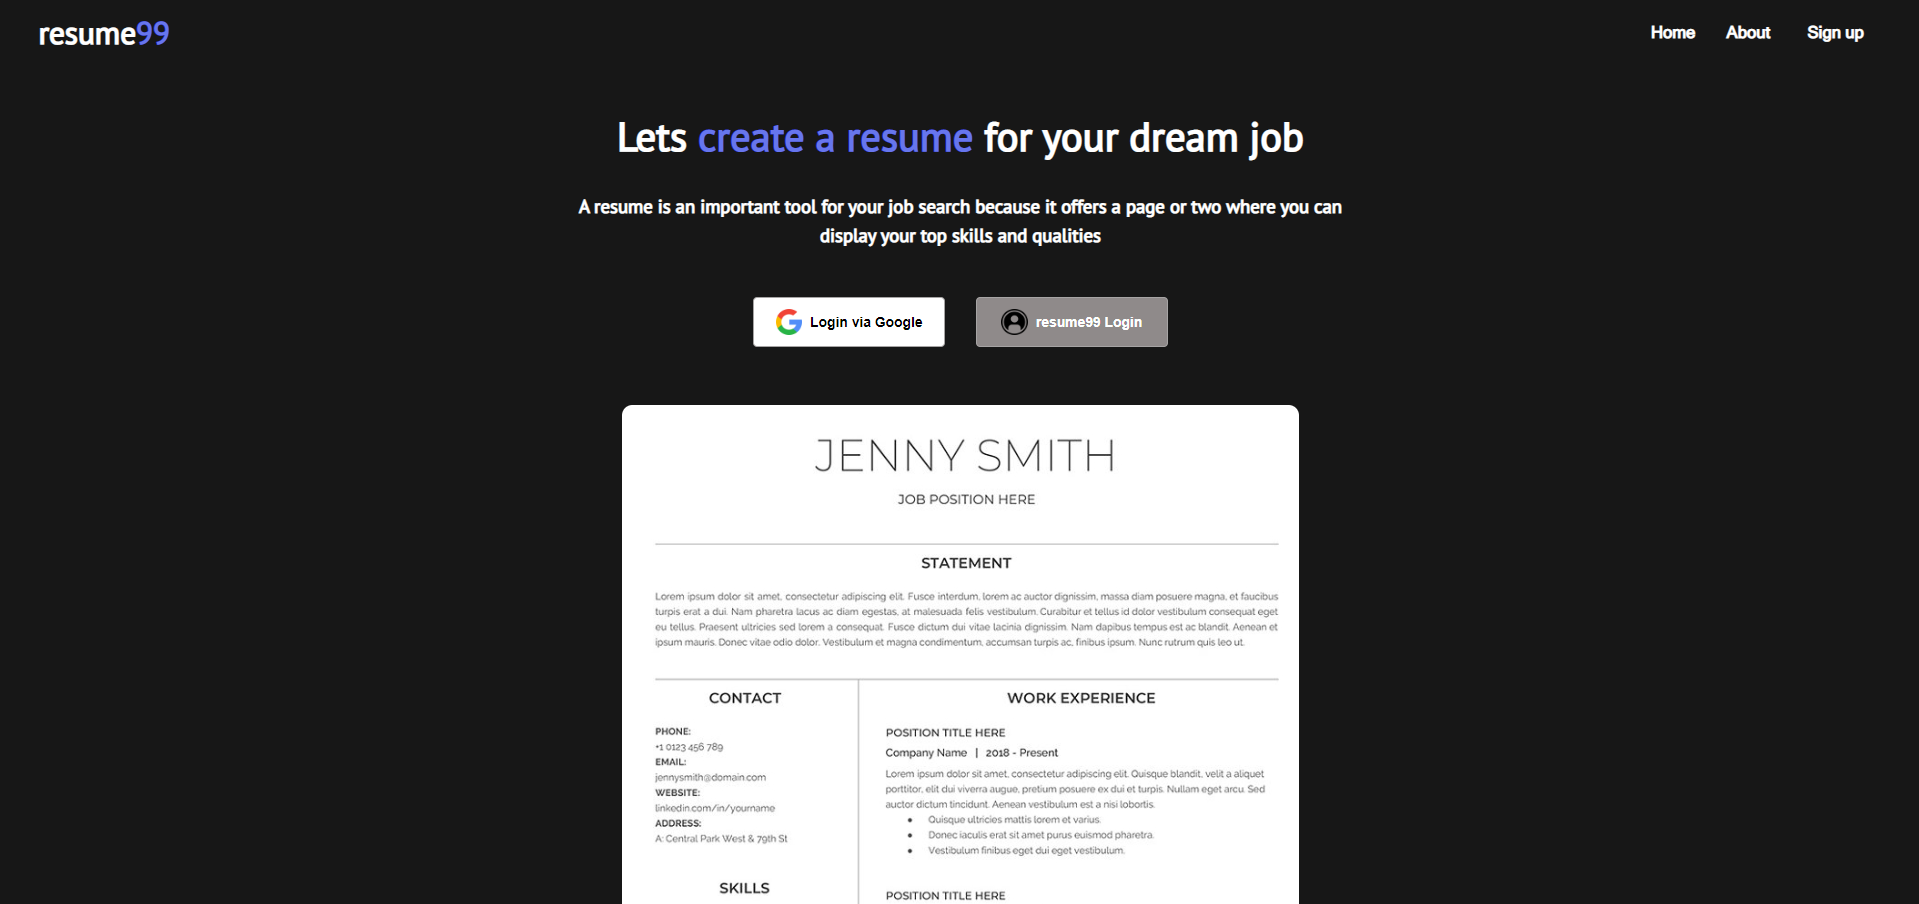
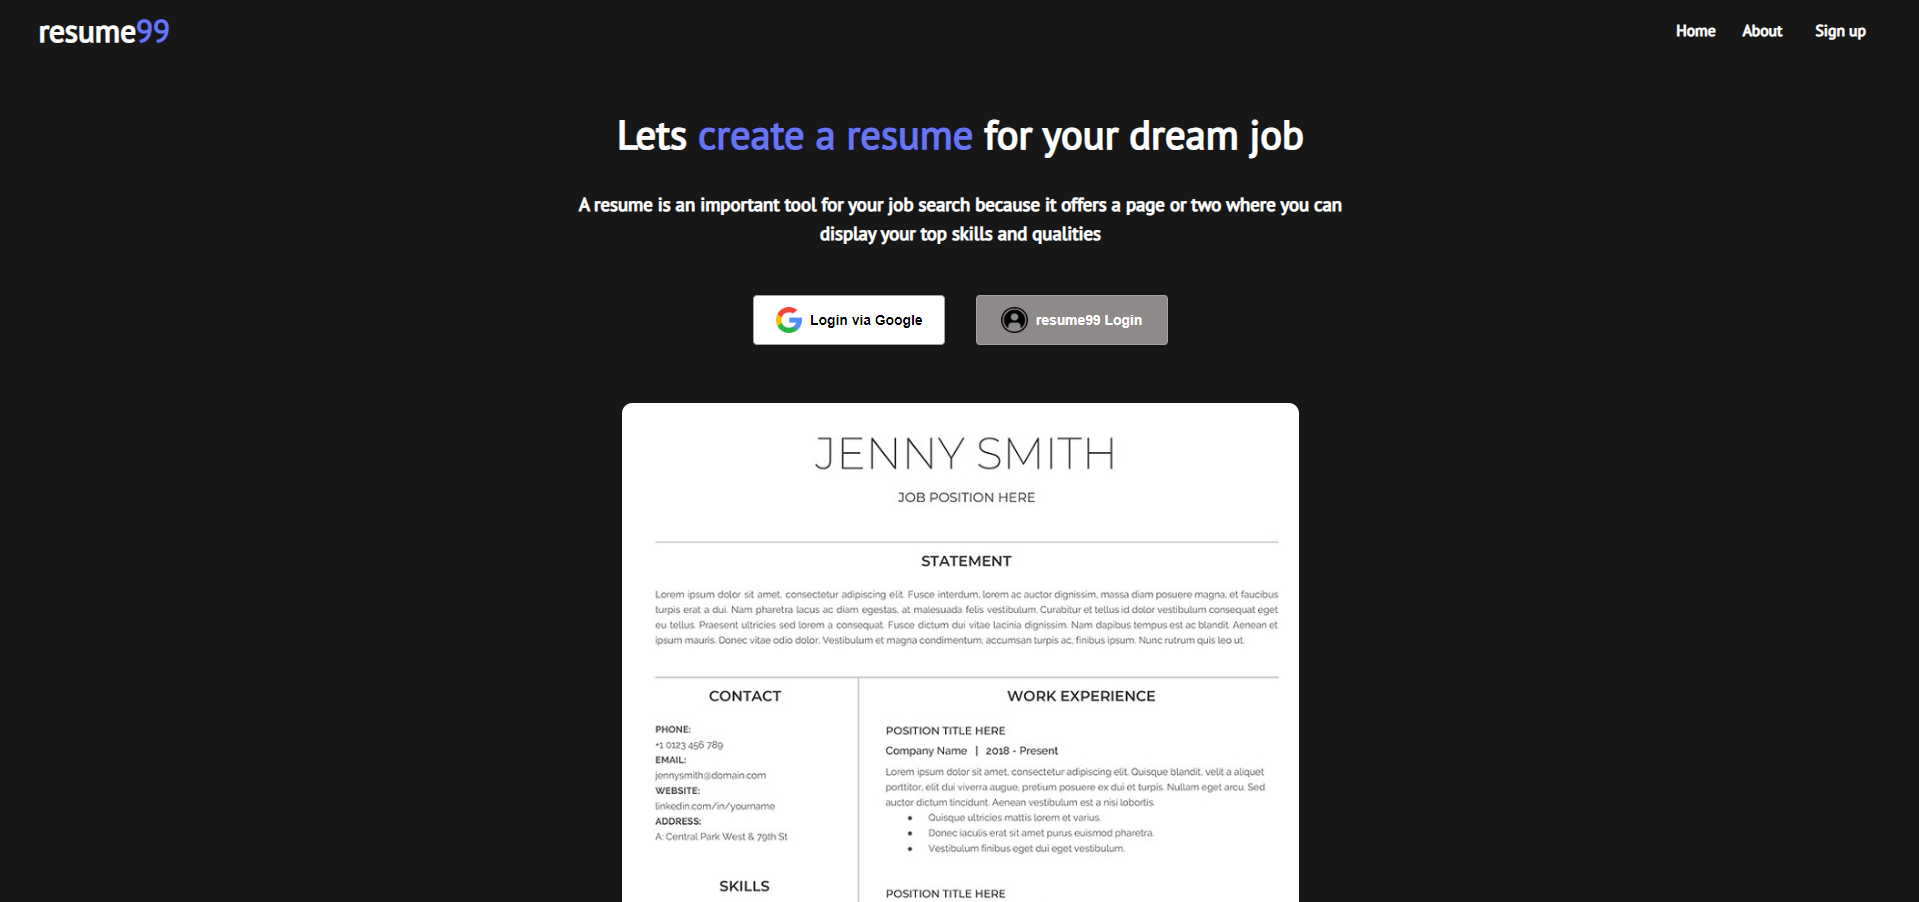
user auth validation

diff --git a/src/components/Navbar.js b/src/components/Navbar.js
@@ -11,6 +11,8 @@ import templatepage from '../asset/2.png'
 import editpage from '../asset/3.png'
 import editpage1 from '../asset/31.png'
 import editpage2 from '../asset/32.png'
+import toast, { Toaster } from 'react-hot-toast';
+
 
 
 export const Navbar = (props) => {
@@ -28,13 +30,24 @@ export const Navbar = (props) => {
     setOpen1(true);
   };
   const handleClose = () => {
-    if (!email && !password) return;
-    props.signup(email, password)
     setOpen(false);
   };
   const handleClose1 = () => {
     setOpen1(false);
   };
+  const handleSignup = () => {
+    if (!email) {
+      toast.error('Please enter email');
+      return;
+    }
+    if (!password) {
+      toast.error('Please enter password');
+      return;
+    }
+
+    props.signup(email, password)
+    setOpen(false);
+  }
 
 
 
@@ -43,10 +56,11 @@ export const Navbar = (props) => {
       <div className="logo">
         <p style={{ fontWeight: '700', fontSize: '30px', color: 'white' }}>resume<span style={{ color: 'rgb(103,118,237)' }}>99</span></p>
       </div>
+      <Toaster />
       <div className="tags">
-        <Link to="/" style={{ fontFamily: 'Helvetica Neue', fontSize: '16px', fontWeight: '700', textDecoration: 'none', margin: '0 12px', color: 'white' }}>Home</Link>
-        <button style={{ fontFamily: 'Helvetica Neue', fontSize: '16px', fontWeight: '700', textDecoration: 'none', margin: '0 12px', color: 'white', backgroundColor: 'transparent', outline: 'none', border: 'none', cursor: 'pointer' }} onClick={handleClickOpen1}>About</button>
-        <Dialog maxWidth="xl"   open={open1} onClose={handleClose1}>
+        <Link to="/" style={{ fontFamily:'PT Sans',fontSize: '15px', fontWeight: '700', textDecoration: 'none', margin: '0 10px', color: 'white' }}>Home</Link>
+        <button style={{ fontFamily:'PT Sans',fontSize: '15px', fontWeight: '600', textDecoration: 'none', margin: '0 10px', color: 'white', backgroundColor: 'transparent', outline: 'none', border: 'none', cursor: 'pointer'}} onClick={handleClickOpen1}>About</button>
+        <Dialog maxWidth="xl" open={open1} onClose={handleClose1}>
           <DialogTitle>About</DialogTitle>
           <DialogContent style={{ textAlign: 'left' }}>
             <p><span style={{ fontWeight: 'bold' }}>resume99</span> is open source resume builder developed bt <span style={{ fontWeight: 'bold' }}><a style={{ color: 'white', textDecoration: 'none' }} href="https://github.com/nisabmohd" target="_blank" rel="noreferrer">Mohd Nisab</a></span></p>
@@ -54,7 +68,7 @@ export const Navbar = (props) => {
             <li style={{ fontSize: '13px' }}> Save To PDF , Save to JSON , User Friendly , Free forever , No Advertising , No User Tracking , Straight Forward</li>
             <h5>How to use ?</h5>
             <li style={{ fontSize: '13px' }}>First Login or signup</li>
-            <img style={{ width: '900px', marginTop: '12px', marginBottom: '12px', borderRadius: '10px'}} src={loginpageimg} alt="" />
+            <img style={{ width: '900px', marginTop: '12px', marginBottom: '12px', borderRadius: '10px' }} src={loginpageimg} alt="" />
             <li style={{ fontSize: '13px' }}>Select a template or create new</li>
             <img style={{ width: '900px', marginTop: '12px', marginBottom: '12px', borderRadius: '10px' }} src={templatepage} alt="" />
             <li style={{ fontSize: '13px' }}>Edit your details</li>
@@ -65,7 +79,7 @@ export const Navbar = (props) => {
             <img style={{ width: '900px', marginTop: '12px', marginBottom: '12px', borderRadius: '10px' }} src={editpage2} alt="" />
           </DialogContent>
         </Dialog>
-        <button style={{ fontFamily: 'Helvetica Neue', fontSize: '16px', fontWeight: '700', textDecoration: 'none', margin: '0 12px', color: 'white', backgroundColor: 'transparent', outline: 'none', border: 'none', cursor: 'pointer' }} onClick={handleClickOpen} >Sign up</button>
+        <button style={{ fontFamily:'PT Sans',fontSize: '15px', fontWeight: '600', textDecoration: 'none', margin: '0 10px', color: 'white', backgroundColor: 'transparent', outline: 'none', border: 'none', cursor: 'pointer' }} onClick={handleClickOpen} >Sign up</button>
         <Dialog open={open} onClose={handleClose}>
           <DialogTitle>Signup</DialogTitle>
           <DialogContent>
@@ -96,7 +110,7 @@ export const Navbar = (props) => {
             />
           </DialogContent>
           <DialogActions>
-            <Button onClick={handleClose}>Signup</Button>
+            <Button onClick={handleSignup}>Signup</Button>
           </DialogActions>
         </Dialog>
       </div>

diff --git a/src/Pages/Home.js b/src/Pages/Home.js
@@ -13,6 +13,8 @@ import Dialog from '@mui/material/Dialog';
 import DialogActions from '@mui/material/DialogActions';
 import DialogContent from '@mui/material/DialogContent';
 import DialogTitle from '@mui/material/DialogTitle';
+import toast, { Toaster } from 'react-hot-toast';
+
 
 
 export const Home = (props) => {
@@ -24,15 +26,21 @@ export const Home = (props) => {
     }
 
     async function emaillogin(email, password) {
-        const user = await signInWithEmailAndPassword(auth, email, password)
-        props.setuser(user)
-        localStorage.setItem('user', JSON.stringify(user.user))
+        signInWithEmailAndPassword(auth, email, password).then((user) => {
+            props.setuser(user)
+            localStorage.setItem('user', JSON.stringify(user.user))
+        }).catch(err => {
+            toast.error(err.message.slice(16));
+        })
     }
 
     async function signup(email, password) {
-        const user = await createUserWithEmailAndPassword(auth, email, password)
-        props.setuser(user)
-        localStorage.setItem('user', JSON.stringify(user.user))
+        createUserWithEmailAndPassword(auth, email, password).then(user => {
+            props.setuser(user)
+            localStorage.setItem('user', JSON.stringify(user.user))
+        }).catch(err => {
+            toast.error(err.message.slice(16));
+        })
 
     }
     const [email, setEmail] = useState('')
@@ -41,15 +49,21 @@ export const Home = (props) => {
     const handleClickOpen1 = () => {
         setOpen1(true);
     };
-
-    const handleClose1 = () => {
-        if (!email && !password) return;
+    const handlelogin = () => {
+        if (!email && !password) {
+            toast.error('Please enter all the credentials');
+            return;
+        }
         emaillogin(email, password)
+        setOpen1(false);
+    }
+    const handleClose1 = () => {
         setOpen1(false);
     };
     return (
         <div>
             <Navbar signup={signup}></Navbar>
+            <Toaster />
             <HomeSection></HomeSection>
             <div className="btns" style={{ width: 'fit-content', display: 'flex', flexDirection: 'row', margin: 'auto', marginTop: '45px' }}>
                 <AutBtn name="Login via Google" img={google} col="white" textcol="black" onc={googleLogin}></AutBtn>
@@ -84,7 +98,7 @@ export const Home = (props) => {
                         />
                     </DialogContent>
                     <DialogActions>
-                        <Button onClick={handleClose1}>Signin</Button>
+                        <Button onClick={handlelogin}>Signin</Button>
                     </DialogActions>
                 </Dialog>
             </div>

diff --git a/src/components/LeftNav.js b/src/components/LeftNav.js
@@ -23,9 +23,9 @@ export const LeftNav = (props) => {
 
 
   return (
-    <div style={{ borderRight: '2px solid rgb(37 37 37)', width: '67px', padding: '15px 0',display:'flex',justifyContent:'space-between',flexDirection:'column' ,backgroundColor:'rgb(38,38,38)'}}>
+    <div style={{ borderRight: '2px solid rgb(37 37 37)', width: '67px', padding: '15px 0', display: 'flex', justifyContent: 'space-between', flexDirection: 'column', backgroundColor: 'rgb(38,38,38)' }}>
       <div className="logo">
-        <p style={{userSelect:'none', fontWeight: '700', fontSize: '27px', color: 'white', backgroundColor: "white", borderRadius: '10%', height: '42.75px', width: '44.35px', display: 'flex', justifyContent: 'center', alignItems: 'center', flexDirection: 'column', margin: 'auto' }}><span style={{ fontSize: '11.55px', color: 'black' }}>resume</span><span style={{ color: 'rgb(103,118,237)', marginBottom: '0px', fontSize: '14.25px', marginTop: '-3px' }}>99</span></p>
+        <p style={{ userSelect: 'none', fontWeight: '700', fontSize: '27px', color: 'white', backgroundColor: "white", borderRadius: '10%', height: '42.75px', width: '44.35px', display: 'flex', justifyContent: 'center', alignItems: 'center', flexDirection: 'column', margin: 'auto' }}><span style={{ fontSize: '11.55px', color: 'black' }}>resume</span><span style={{ color: 'rgb(103,118,237)', marginBottom: '0px', fontSize: '14.25px', marginTop: '-3px' }}>99</span></p>
       </div>
       <div className="tags">
         <div className="userlogo">
@@ -40,7 +40,7 @@ export const LeftNav = (props) => {
                   aria-haspopup="true"
                   aria-expanded={open ? "true" : undefined}
                 >
-                  <Avatar src={(JSON.parse(localStorage.getItem('user'))).photoURL} sx={{ width: 37, height: 37 }}></Avatar>
+                  <Avatar src={(JSON.parse(localStorage.getItem('user'))).photoURL} sx={{ width: 37, height: 37, marginLeft: '-6px' }}></Avatar>
                 </IconButton>
               </Tooltip>
             </Box>

diff --git a/public/index.html b/public/index.html
@@ -12,6 +12,9 @@
   <link rel="preconnect" href="https://fonts.googleapis.com">
   <link rel="preconnect" href="https://fonts.gstatic.com" crossorigin>
   <link href="https://fonts.googleapis.com/css2?family=PT+Sans&display=swap" rel="stylesheet">
+  <link rel="preconnect" href="https://fonts.googleapis.com">
+  <link rel="preconnect" href="https://fonts.gstatic.com" crossorigin>
+  <link href="https://fonts.googleapis.com/css2?family=PT+Sans&display=swap" rel="stylesheet">
   <title>React App</title>
 </head>
 
